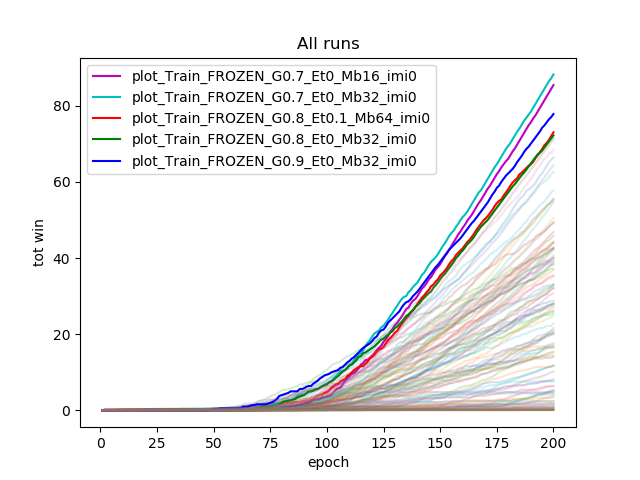
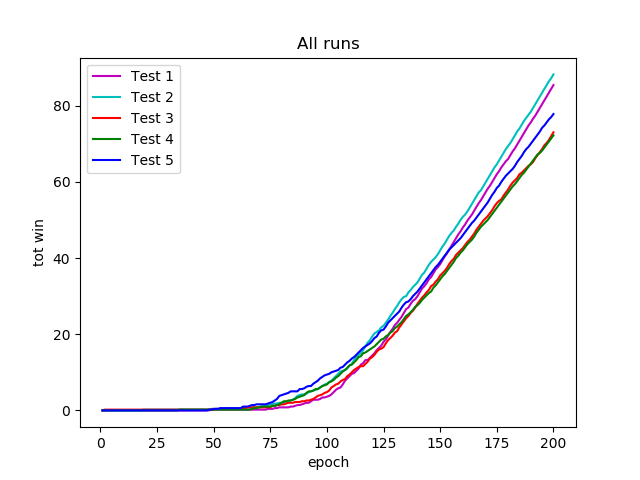
Code for plotting heatmap

Changed region(s): [[0.1562, 0.3125, 0.875, 0.875], [0.1562, 0.125, 0.6875, 0.375]]

diff --git a/misc/plot_frozen_result.py b/misc/plot_frozen_result.py
@@ -2,10 +2,13 @@ import matplotlib.pyplot as plt
 import csv
 from os import listdir, makedirs
 from os.path import isfile, join, isdir
+import pandas as pd
+import seaborn as sns
 import pprint
 
 
-def __group_by_run(files):
+def __group_by_run(dir):
+    files = [f for f in listdir(dir) if isfile(join(dir, f))]
     temp = {}
     for f in files:
         group_name = f[:-8]
@@ -31,7 +34,7 @@ def create_axis():
 # Plot one plot per run
 def plot_frozen_res(dir):
     # Read files from dir and group them
-    all_runs = __group_by_run([f for f in listdir(dir) if isfile(join(dir, f))])
+    all_runs = __group_by_run(dir)
 
     for run_params, files in all_runs.items():
         print(run_params)
@@ -127,8 +130,11 @@ def plot_frozen_res_avg(dir):
     color = ['b', 'g', 'r', 'c', 'm']
     path_to_res = "../result/frozen/"
 
+    translations = {}
+    test_nr = 1
+
     # Read files from dir and group them
-    all_runs = __group_by_run([f for f in listdir(dir) if isfile(join(dir, f))])
+    all_runs = __group_by_run(dir)
     best_runs = {}
 
     # Loop through all files one time to find the best result
@@ -152,9 +158,14 @@ def plot_frozen_res_avg(dir):
         epochs, avg_win = calc_avg_win(dir, files)
 
         if run_params in best_runs.keys():
-            plt.plot(epochs, avg_win, label=run_params, color=color.pop())
+            label = f"Test {test_nr}"
+            test_nr += 1
+            translations[label] = run_params
+            plt.plot(epochs, avg_win, label=label, color=color.pop())
         else:
-            plt.plot(epochs, avg_win, alpha=.2)
+            plt.plot(epochs, avg_win, alpha=0)
+
+    pprint.pprint(translations)
 
     plt.title("All runs")
     plt.xlabel('epoch')
@@ -169,5 +180,83 @@ def plot_frozen_res_avg(dir):
     plt.show()
 
 
+def plot_frozen_heatmap(dir):
+    # Constants
+    track_parmas = ['Mb', 'G']  # First x, Second y
+    track_as_float = ['G', 'Et']
+    nr_chars_in_name = 18  # How many chars before parmas start
+
+    all_runs = __group_by_run(dir)
+
+    all_values = {}
+
+    for run_params, files in all_runs.items():
+        run_params = run_params[nr_chars_in_name:]
+        print(f"Run params: {run_params}")
+
+        params = run_params.split('_')
+
+        not_tracked = []
+        axis_values = [0, 0]
+
+        for param in params:
+            # Clear all digits
+            param_type = ''.join([str(i) for i in param if not i.isdigit() and i != '.'])
+
+            if param_type not in track_parmas:
+                not_tracked.append(str(param))
+            else:
+                index = track_parmas.index(param_type)
+
+                # Remove type
+                axis_values[index] = param[len(param_type):]
+
+                if param_type in track_as_float:
+                    axis_values[index] = float(axis_values[index])
+                else:
+                    axis_values[index] = int(axis_values[index])
+
+        print(f"Axis_values {axis_values}")
+
+        not_tracked_key = "_".join(not_tracked)
+        print(f'Not tracked key: {not_tracked_key}')
+
+        _, avg_win = calc_avg_win(dir, files)
+
+        if not_tracked_key in all_values:
+            values = all_values[not_tracked_key]
+
+            if axis_values[0] in values:
+                values[axis_values[0]][axis_values[1]] = avg_win[-1]
+            else:
+                values[axis_values[0]] = {axis_values[1]: avg_win[-1]}
+            print(f"Got here axis_values {axis_values} avg_win {avg_win[-1]}")
+            pprint.pprint(values)
+        else:
+            values = {axis_values[0]: {axis_values[-1]: avg_win[-1]}}
+            print(f"axis_values {axis_values} avg_win {avg_win[-1]}")
+            pprint.pprint(values)
+
+            # values[][axis_values[1]] = avg_win[-1]
+
+        all_values[not_tracked_key] = values
+        print()
+
+    print("Created data")
+    for not_tracked, values in all_values.items():
+        frame = pd.DataFrame.from_dict(values)
+        frame.sort_index(axis=1, inplace=True)
+        frame.sort_index(axis=0, ascending=False, inplace=True)
+        # frame = frame.reindex(sorted(frame.columns), axis=1)
+        pprint.pprint(values)
+        print(frame)
+        sns.heatmap(frame, annot=True, vmax=85)
+        plt.title(not_tracked)
+        plt.xlabel(track_parmas[0])
+        plt.ylabel(track_parmas[1])
+        plt.show()
+
+
 plot_frozen_res_avg("../Data/Frozen/train")
 # plot_frozen_res("../Data/Frozen/train")
+# plot_frozen_heatmap("../Data/Frozen/train")
